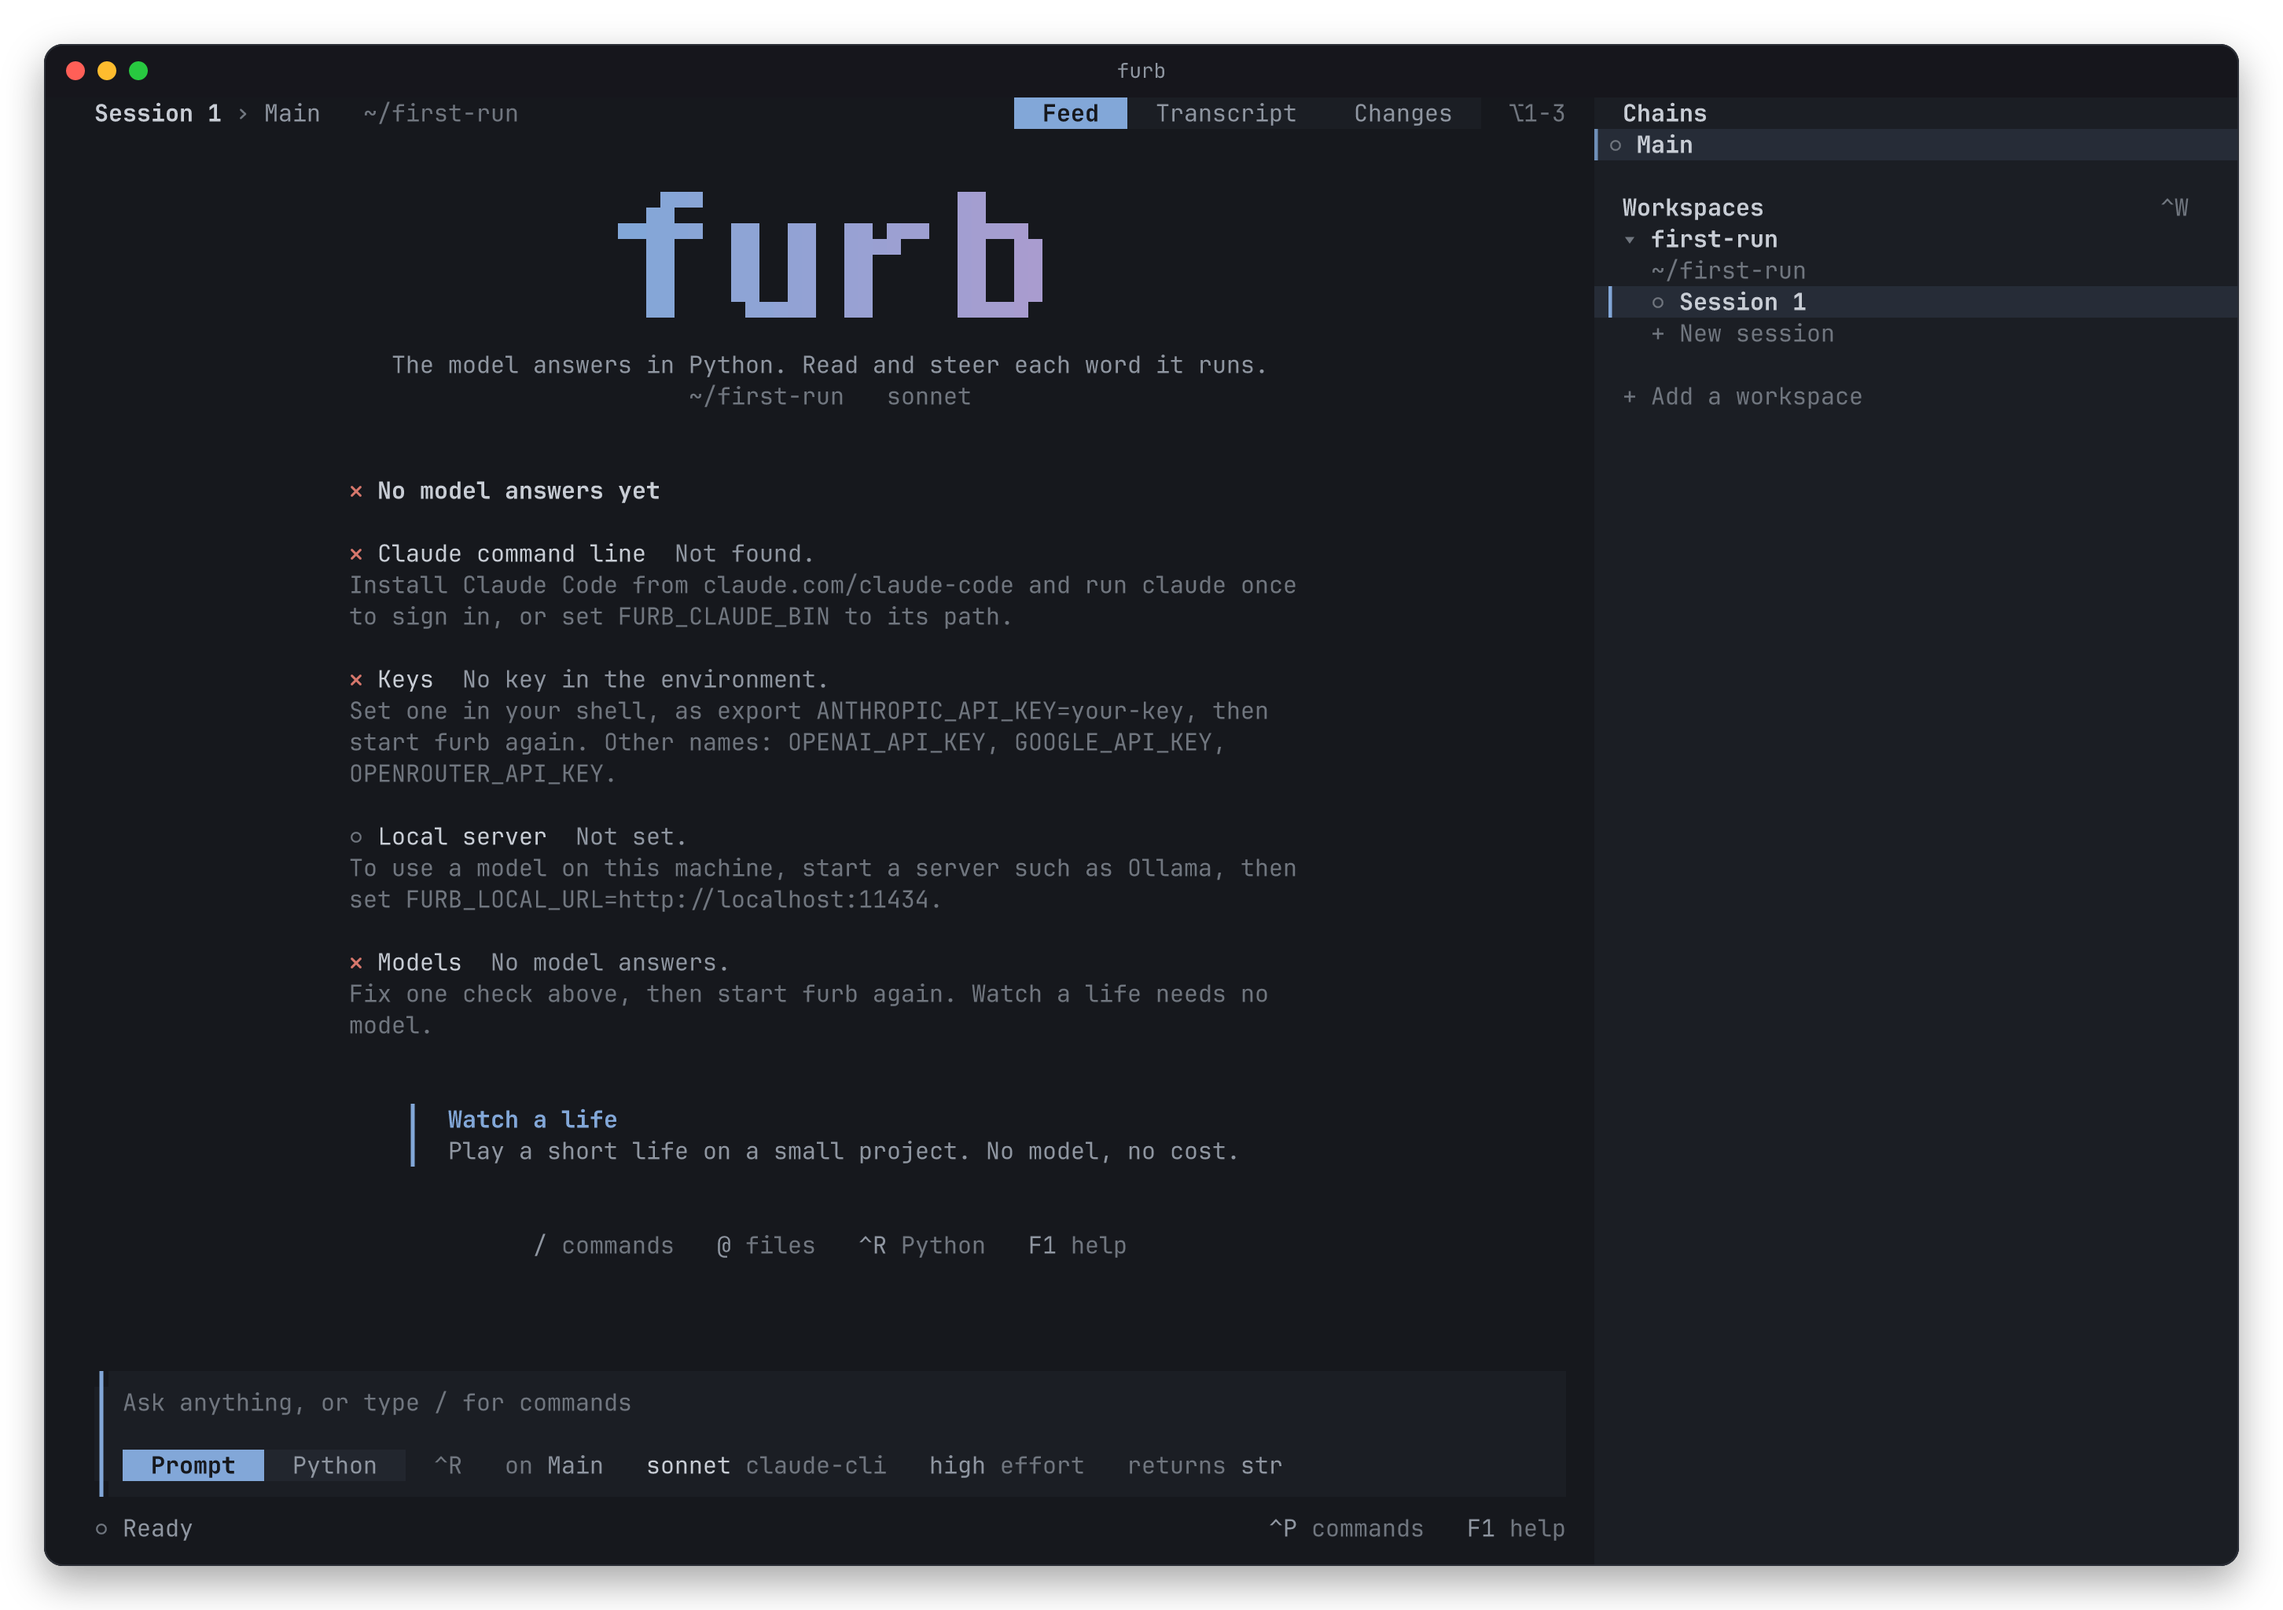
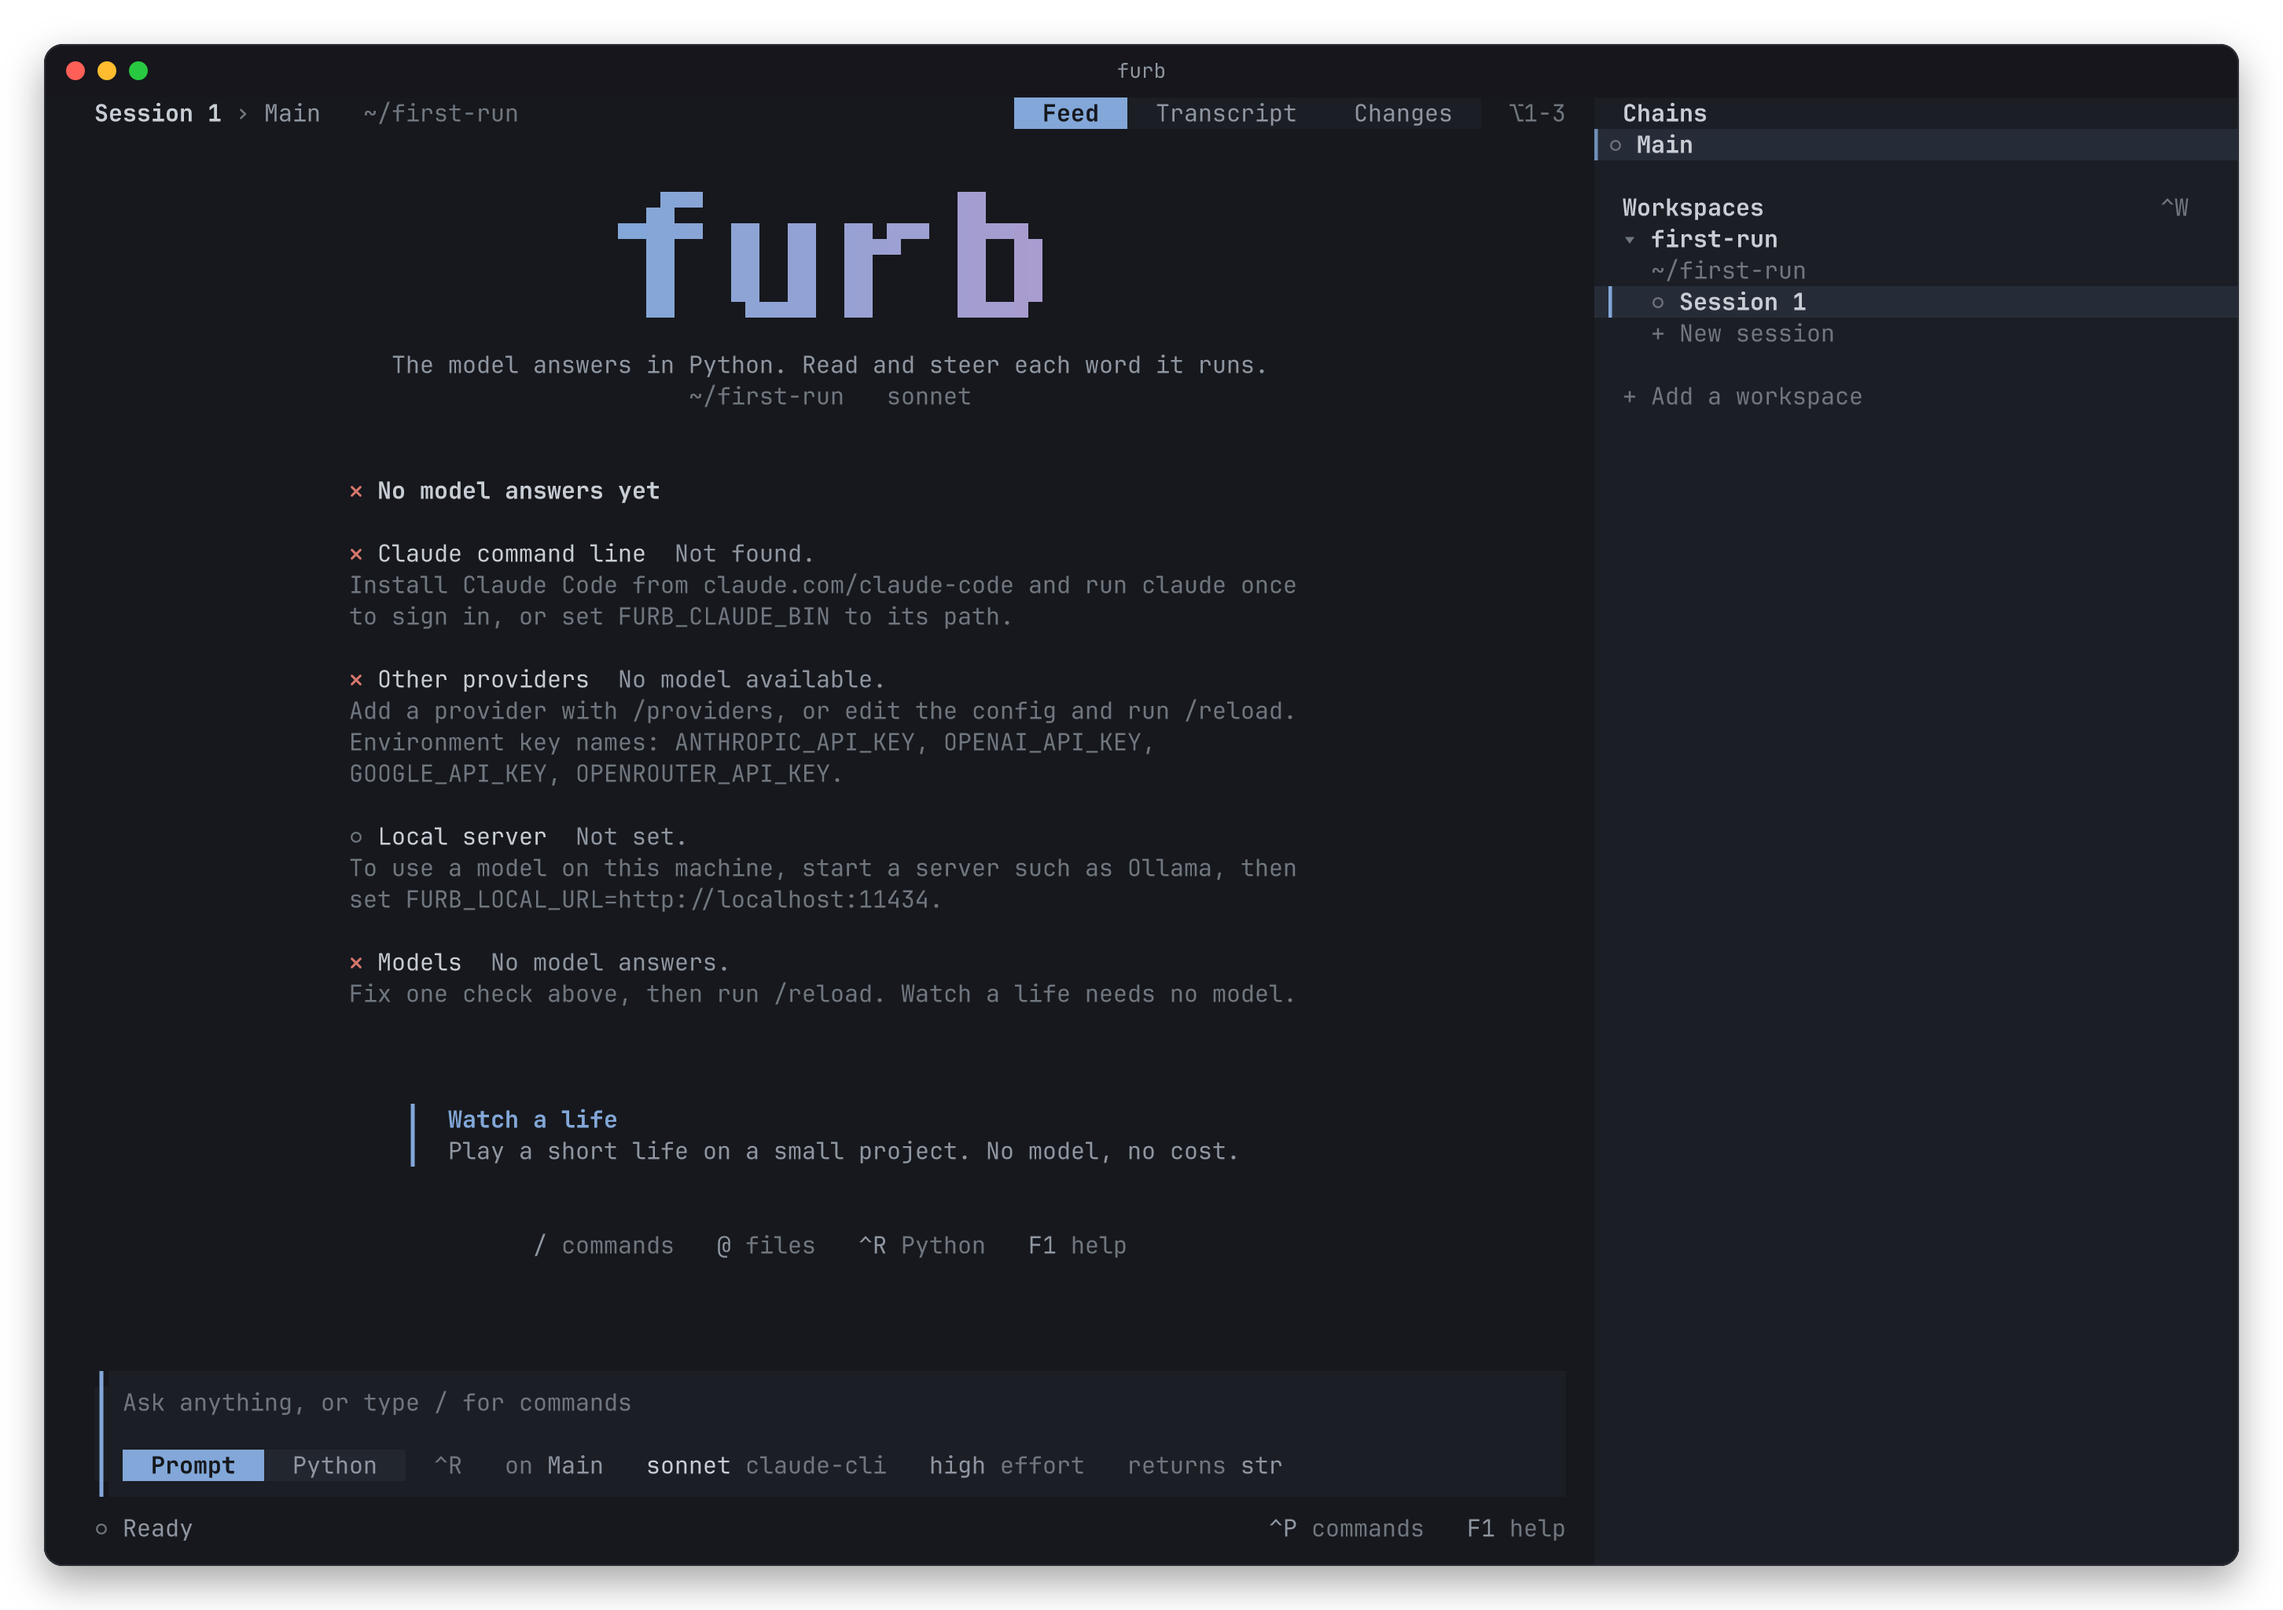
fix(tui): Refresh provider status after config changes

Changed region(s): [[0.155, 0.4062, 0.5579, 0.5], [0.3409, 0.5938, 0.4959, 0.625], [0.155, 0.625, 0.186, 0.6562]]

diff --git a/tui/src/setup.ts b/tui/src/setup.ts
@@ -13,16 +13,17 @@ export interface Check {
 const usual = ["anthropic", "openai", "google", "openrouter"];
 
 /** The checks of the first run, from what the catalog of the crate found on this machine and how many models it
- * offers: the claude command line, the keys in the environment, the local server, and the models that answer. */
+ * offers: the claude command line, the other providers, the local server, and the models that answer. */
 export function checks(info: SetupInfo, offered: number): Check[] {
   const providers = info.providers.filter((one) => one.enabled !== false);
   const disabled = (name: string) => info.providers.some((one) => one.provider === name && !one.enabled);
-  const ready = providers.filter((one) => one.offered > 0);
+  const other = providers.filter((one) => !["local", "claude-cli"].includes(one.provider));
+  const ready = other.filter((one) => one.offered > 0);
   const named = [
-    ...usual.flatMap((name) => providers.filter((one) => one.provider === name)),
-    ...providers.filter((one) => !usual.includes(one.provider)),
+    ...usual.flatMap((name) => other.filter((one) => one.provider === name)),
+    ...other.filter((one) => !usual.includes(one.provider)),
   ].flatMap((one) => one.env.find((name) => name.endsWith("_API_KEY")) ?? one.env.slice(0, 1));
-  const [first = "ANTHROPIC_API_KEY", ...others] = named;
+  const configured = providers.find((one) => one.provider === "local");
   const local = info.local;
   return [
     disabled("claude-cli")
@@ -37,37 +38,50 @@ export function checks(info: SetupInfo, offered: number): Check[] {
           },
     ready.length
       ? {
-          label: "Keys",
+          label: "Other providers",
           state: "ready",
           found: `Models available from ${ready.map((one) => one.provider).join(", ")}.`,
         }
       : {
-          label: "Keys",
+          label: "Other providers",
           state: "missing",
-          found: "No key in the environment.",
-          fix: `Set one in your shell, as export ${first}=your-key, then start furb again.${others.length ? ` Other names: ${others.slice(0, 3).join(", ")}.` : ""}`,
+          found: "No model available.",
+          fix: `Add a provider with /providers, or edit the config and run /reload.${named.length ? ` Environment key names: ${named.slice(0, 4).join(", ")}.` : ""}`,
         },
     disabled("local")
       ? { label: "Local server", state: "optional", found: "Disabled in the provider settings." }
-      : !local
-        ? {
-            label: "Local server",
-            state: "optional",
-            found: "Not set.",
-            fix: "To use a model on this machine, start a server such as Ollama, then set FURB_LOCAL_URL=http://localhost:11434.",
-          }
-        : local.offered
-          ? { label: "Local server", state: "ready", found: `${local.offered} models at ${local.address}.` }
+      : configured
+        ? configured.offered
+          ? {
+              label: "Local server",
+              state: "ready",
+              found: `${configured.offered} ${configured.offered === 1 ? "model" : "models"} in the provider settings.`,
+            }
           : {
               label: "Local server",
               state: "missing",
-              found: local.failed
-                ? `No answer from ${local.address}.`
-                : `No model for chat at ${local.address}.`,
-              fix: local.failed
-                ? "Start the server, or set FURB_LOCAL_URL to its address."
-                : "Load a model for chat on the server.",
-            },
+              found: "No model from the local provider settings.",
+              fix: "Check this provider's URL, model and key in the config, then run /reload.",
+            }
+        : !local
+          ? {
+              label: "Local server",
+              state: "optional",
+              found: "Not set.",
+              fix: "To use a model on this machine, start a server such as Ollama, then set FURB_LOCAL_URL=http://localhost:11434.",
+            }
+          : local.offered
+            ? { label: "Local server", state: "ready", found: `${local.offered} models at ${local.address}.` }
+            : {
+                label: "Local server",
+                state: "missing",
+                found: local.failed
+                  ? `No answer from ${local.address}.`
+                  : `No model for chat at ${local.address}.`,
+                fix: local.failed
+                  ? "Start the server, or set FURB_LOCAL_URL to its address."
+                  : "Load a model for chat on the server.",
+              },
     offered
       ? {
           label: "Models",
@@ -78,7 +92,7 @@ export function checks(info: SetupInfo, offered: number): Check[] {
           label: "Models",
           state: "missing",
           found: "No model answers.",
-          fix: "Fix one check above, then start furb again. Watch a life needs no model.",
+          fix: "Fix one check above, then run /reload. Watch a life needs no model.",
         },
   ];
 }

diff --git a/tui/test/setup.test.ts b/tui/test/setup.test.ts
@@ -11,12 +11,12 @@ test("a machine with no model gives a fix for each check that is missing, and sa
   const found = checks({ claude: false, providers }, 0);
   expect(found.map(({ label, state }) => [label, state])).toEqual([
     ["Claude command line", "missing"],
-    ["Keys", "missing"],
+    ["Other providers", "missing"],
     ["Local server", "optional"],
     ["Models", "missing"],
   ]);
   expect(found[1]?.fix).toBe(
-    "Set one in your shell, as export ANTHROPIC_API_KEY=your-key, then start furb again. Other names: OPENAI_API_KEY, GOOGLE_API_KEY.",
+    "Add a provider with /providers, or edit the config and run /reload. Environment key names: ANTHROPIC_API_KEY, OPENAI_API_KEY, GOOGLE_API_KEY.",
   );
   expect(found[3]?.found).toBe("No model answers.");
   expect(found.every((check) => check.fix)).toBe(true);
@@ -44,5 +44,22 @@ test("a local server that does not answer is missing, with its address", () => {
     state: "missing",
     found: "No answer from http://127.0.0.1:9.",
     fix: "Start the server, or set FURB_LOCAL_URL to its address.",
+  });
+});
+
+test("a local provider from the config shows its models or asks for a settings repair", () => {
+  const configured = { provider: "local", env: [], enabled: true, offered: 1 };
+  const ready = checks({ claude: false, providers: [...providers, configured] }, 1);
+  expect(ready[2]).toEqual({
+    label: "Local server",
+    state: "ready",
+    found: "1 model in the provider settings.",
+  });
+  const missing = checks({ claude: false, providers: [...providers, { ...configured, offered: 0 }] }, 0);
+  expect(missing[2]).toEqual({
+    label: "Local server",
+    state: "missing",
+    found: "No model from the local provider settings.",
+    fix: "Check this provider's URL, model and key in the config, then run /reload.",
   });
 });

diff --git a/tui/test/app.test.ts b/tui/test/app.test.ts
@@ -37,6 +37,21 @@ async function drawn(frame: () => Promise<string>, root: Renderable): Promise<st
 
 afterAll(removeDemoDirectories);
 
+test("the welcome shows provider checks when they arrive and updates them after a reload", () =>
+  composing(async ({ session, frame }) => {
+    session.setup = { claude: false, providers: [{ provider: "local", env: [], enabled: true, offered: 0 }] };
+    session.catalog = [];
+    session.catalogRead = true;
+    session.emit("change");
+    expect(await frame()).toContain("No model from the local provider settings.");
+    session.setup = { claude: false, providers: [{ provider: "local", env: [], enabled: true, offered: 1 }] };
+    session.catalog = [["local:qwen3", ["medium"], 65536]];
+    session.emit("change");
+    const shown = await frame();
+    expect(shown).toContain("1 model in the provider settings.");
+    expect(shown).not.toContain("No model from the local provider settings.");
+  }));
+
 test("the real native life drives the feed, the transcript, and responsive views", () =>
   composing(
     async ({ session, app, screen, frame }) => {

diff --git a/tui/script/screenshots.ts b/tui/script/screenshots.ts
@@ -775,6 +775,23 @@ try {
   };
   await show(bare);
   await capture("63-setup-no-model");
+  bare.catalog = [["local:qwen3", ["low", "medium", "high"], 65536]];
+  bare.setup = {
+    ...bare.setup,
+    providers: [...bare.setup.providers, { provider: "local", env: [], offered: 1, enabled: true }],
+  };
+  bare.emit("change");
+  await capture("92-setup-configured-local");
+  bare.catalog = [];
+  bare.setup = {
+    ...bare.setup,
+    providers: [
+      ...bare.setup.providers.filter((one) => one.provider !== "local"),
+      { provider: "local", env: ["LOCAL_KEY"], offered: 0, enabled: true },
+    ],
+  };
+  bare.emit("change");
+  await capture("93-setup-configured-local-missing");
 
   // Watch a life: the demo plays by itself, asks no model, and costs nothing.
   app().dispose();

diff --git a/tui/src/app.ts b/tui/src/app.ts
@@ -2655,7 +2655,18 @@ export class App {
       }
       if (!items && !w.search && !w.loading && !w.error) {
         const { width, height } = this.scroll.viewport;
-        add("welcome", `welcome:${width}:${height}:${this.theme}`, [], (box) => this.welcome(box, height));
+        const welcomeKey = JSON.stringify([
+          this.reader,
+          w.catalogRead,
+          w.catalog.length,
+          w.setup,
+          w.actorChoice.model,
+          w.workingDirectory,
+          w.watching,
+        ]);
+        add("welcome", `welcome:${width}:${height}:${this.theme}:${welcomeKey}`, [], (box) =>
+          this.welcome(box, height),
+        );
         items++;
       }
     } else if (w.view === "transcript") {
